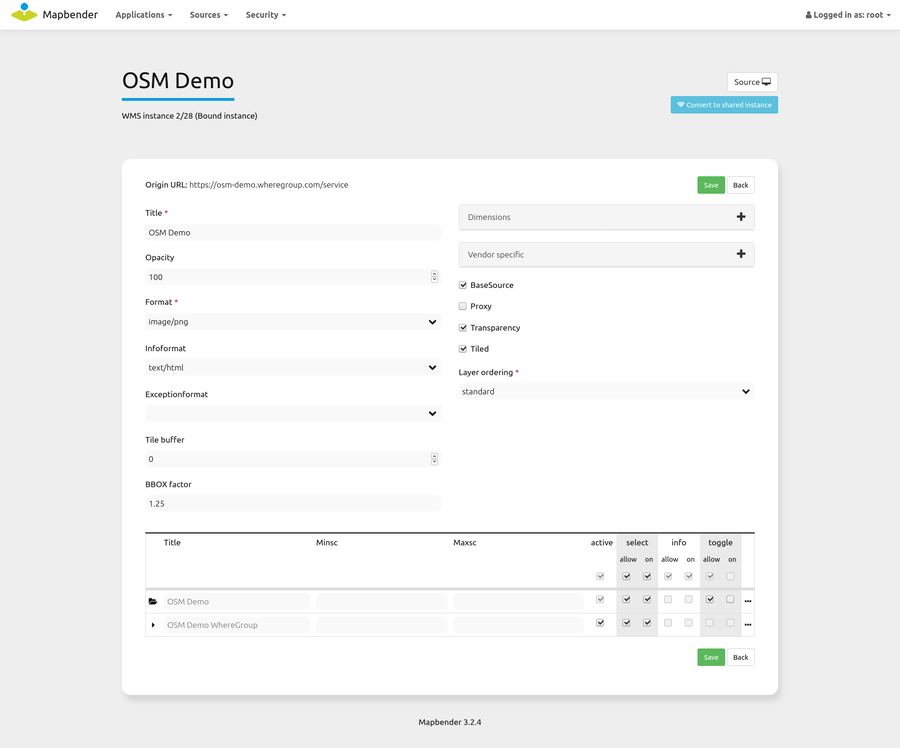
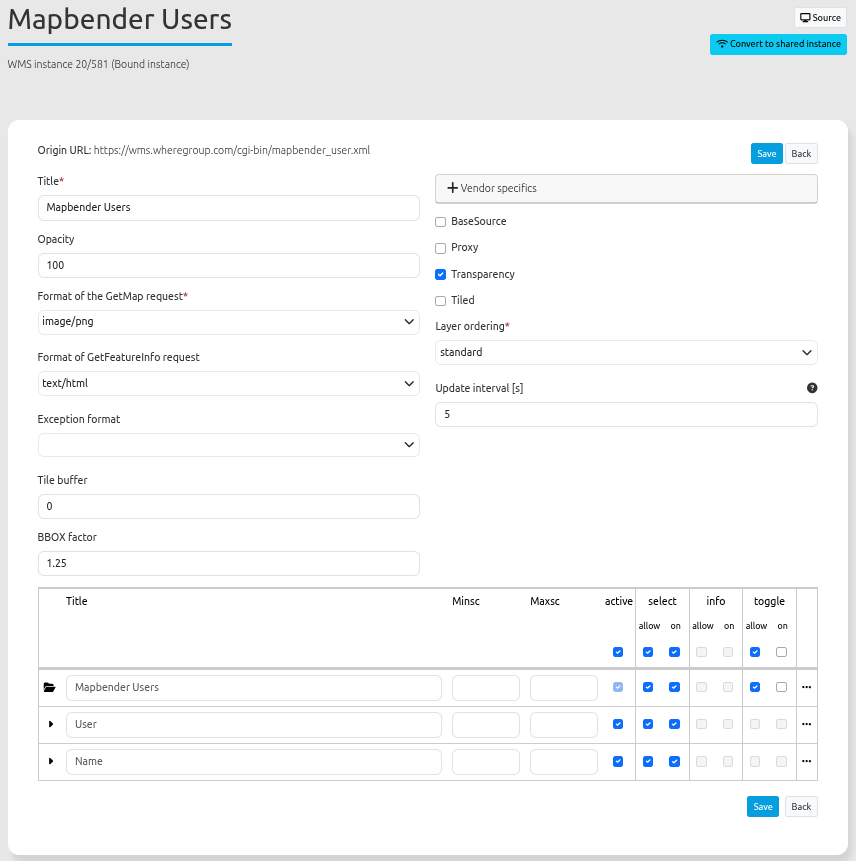
layerset doku: added update interval doku part

diff --git a/de/backend/applications/layerset.rst b/de/backend/applications/layerset.rst
@@ -78,6 +78,7 @@ Der Screenshot zeigt die `private Instanz <#freie-und-private-instanzen>`_ ``2/2
 
 - **Gekachelt (Tiled):** Der Dienst wird in Kacheln angefordert (Standard: nicht gekachelt). Siehe auch unter :ref:`Hinweise <de/backend/applications/layerset:Hinweise zu den Auswirkungen der einzelnen Konfigurationen>`.
 
+- **Aktualisierungsintervall [s]:** Ist dieses gesetzt und nicht 0, wird der Dienst automatisch im angegebenen Intervall (in Sekunden) aktualisiert.
 
 **Layer-Reihenfolge:**
 

diff --git a/en/backend/applications/layerset.rst b/en/backend/applications/layerset.rst
@@ -80,6 +80,7 @@ The screenshot above shows the `bound instance <#shared-and-bound-instances>`_ `
 
 - **Tiled:** The service is requested in tiles. The standard is not tiled. See the following :ref:`hints <en/backend/applications/layerset:Notes on the effects of each configuration>`.
 
+- **Update interval [s]:** If set and not 0, the service will automatically update at the specified interval (in seconds).
 
 **Layer-Order:**
 
